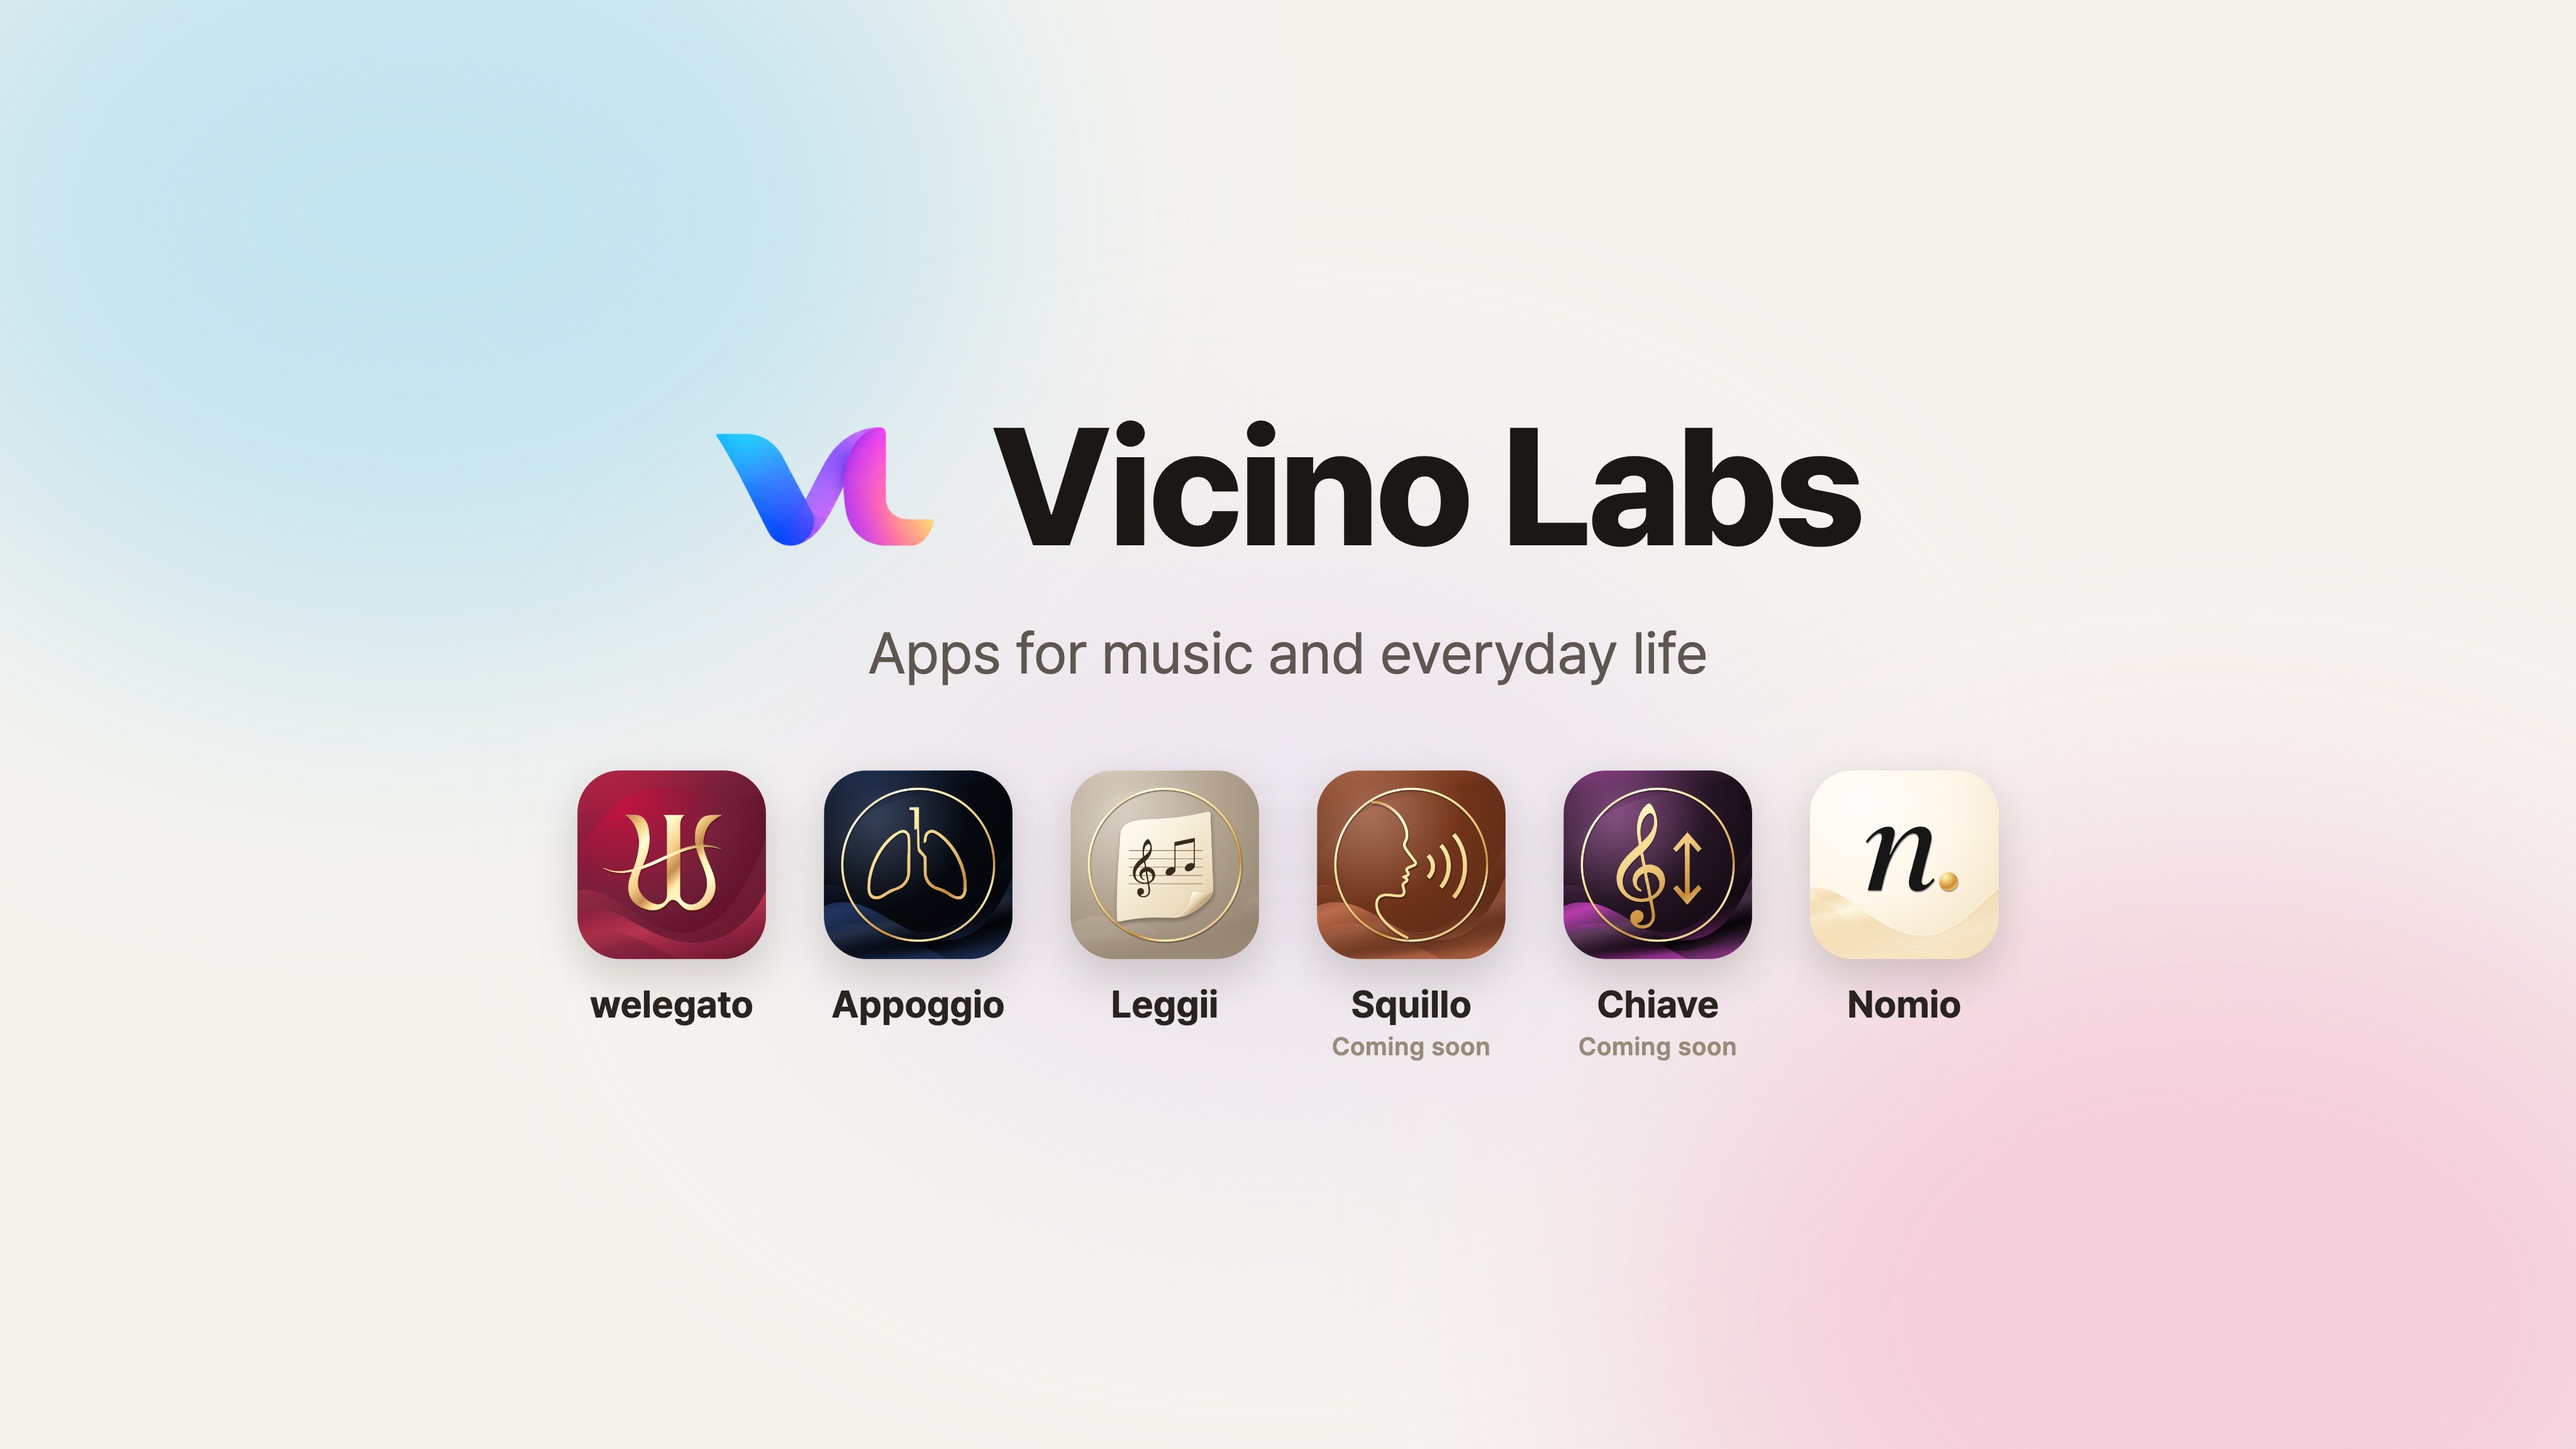
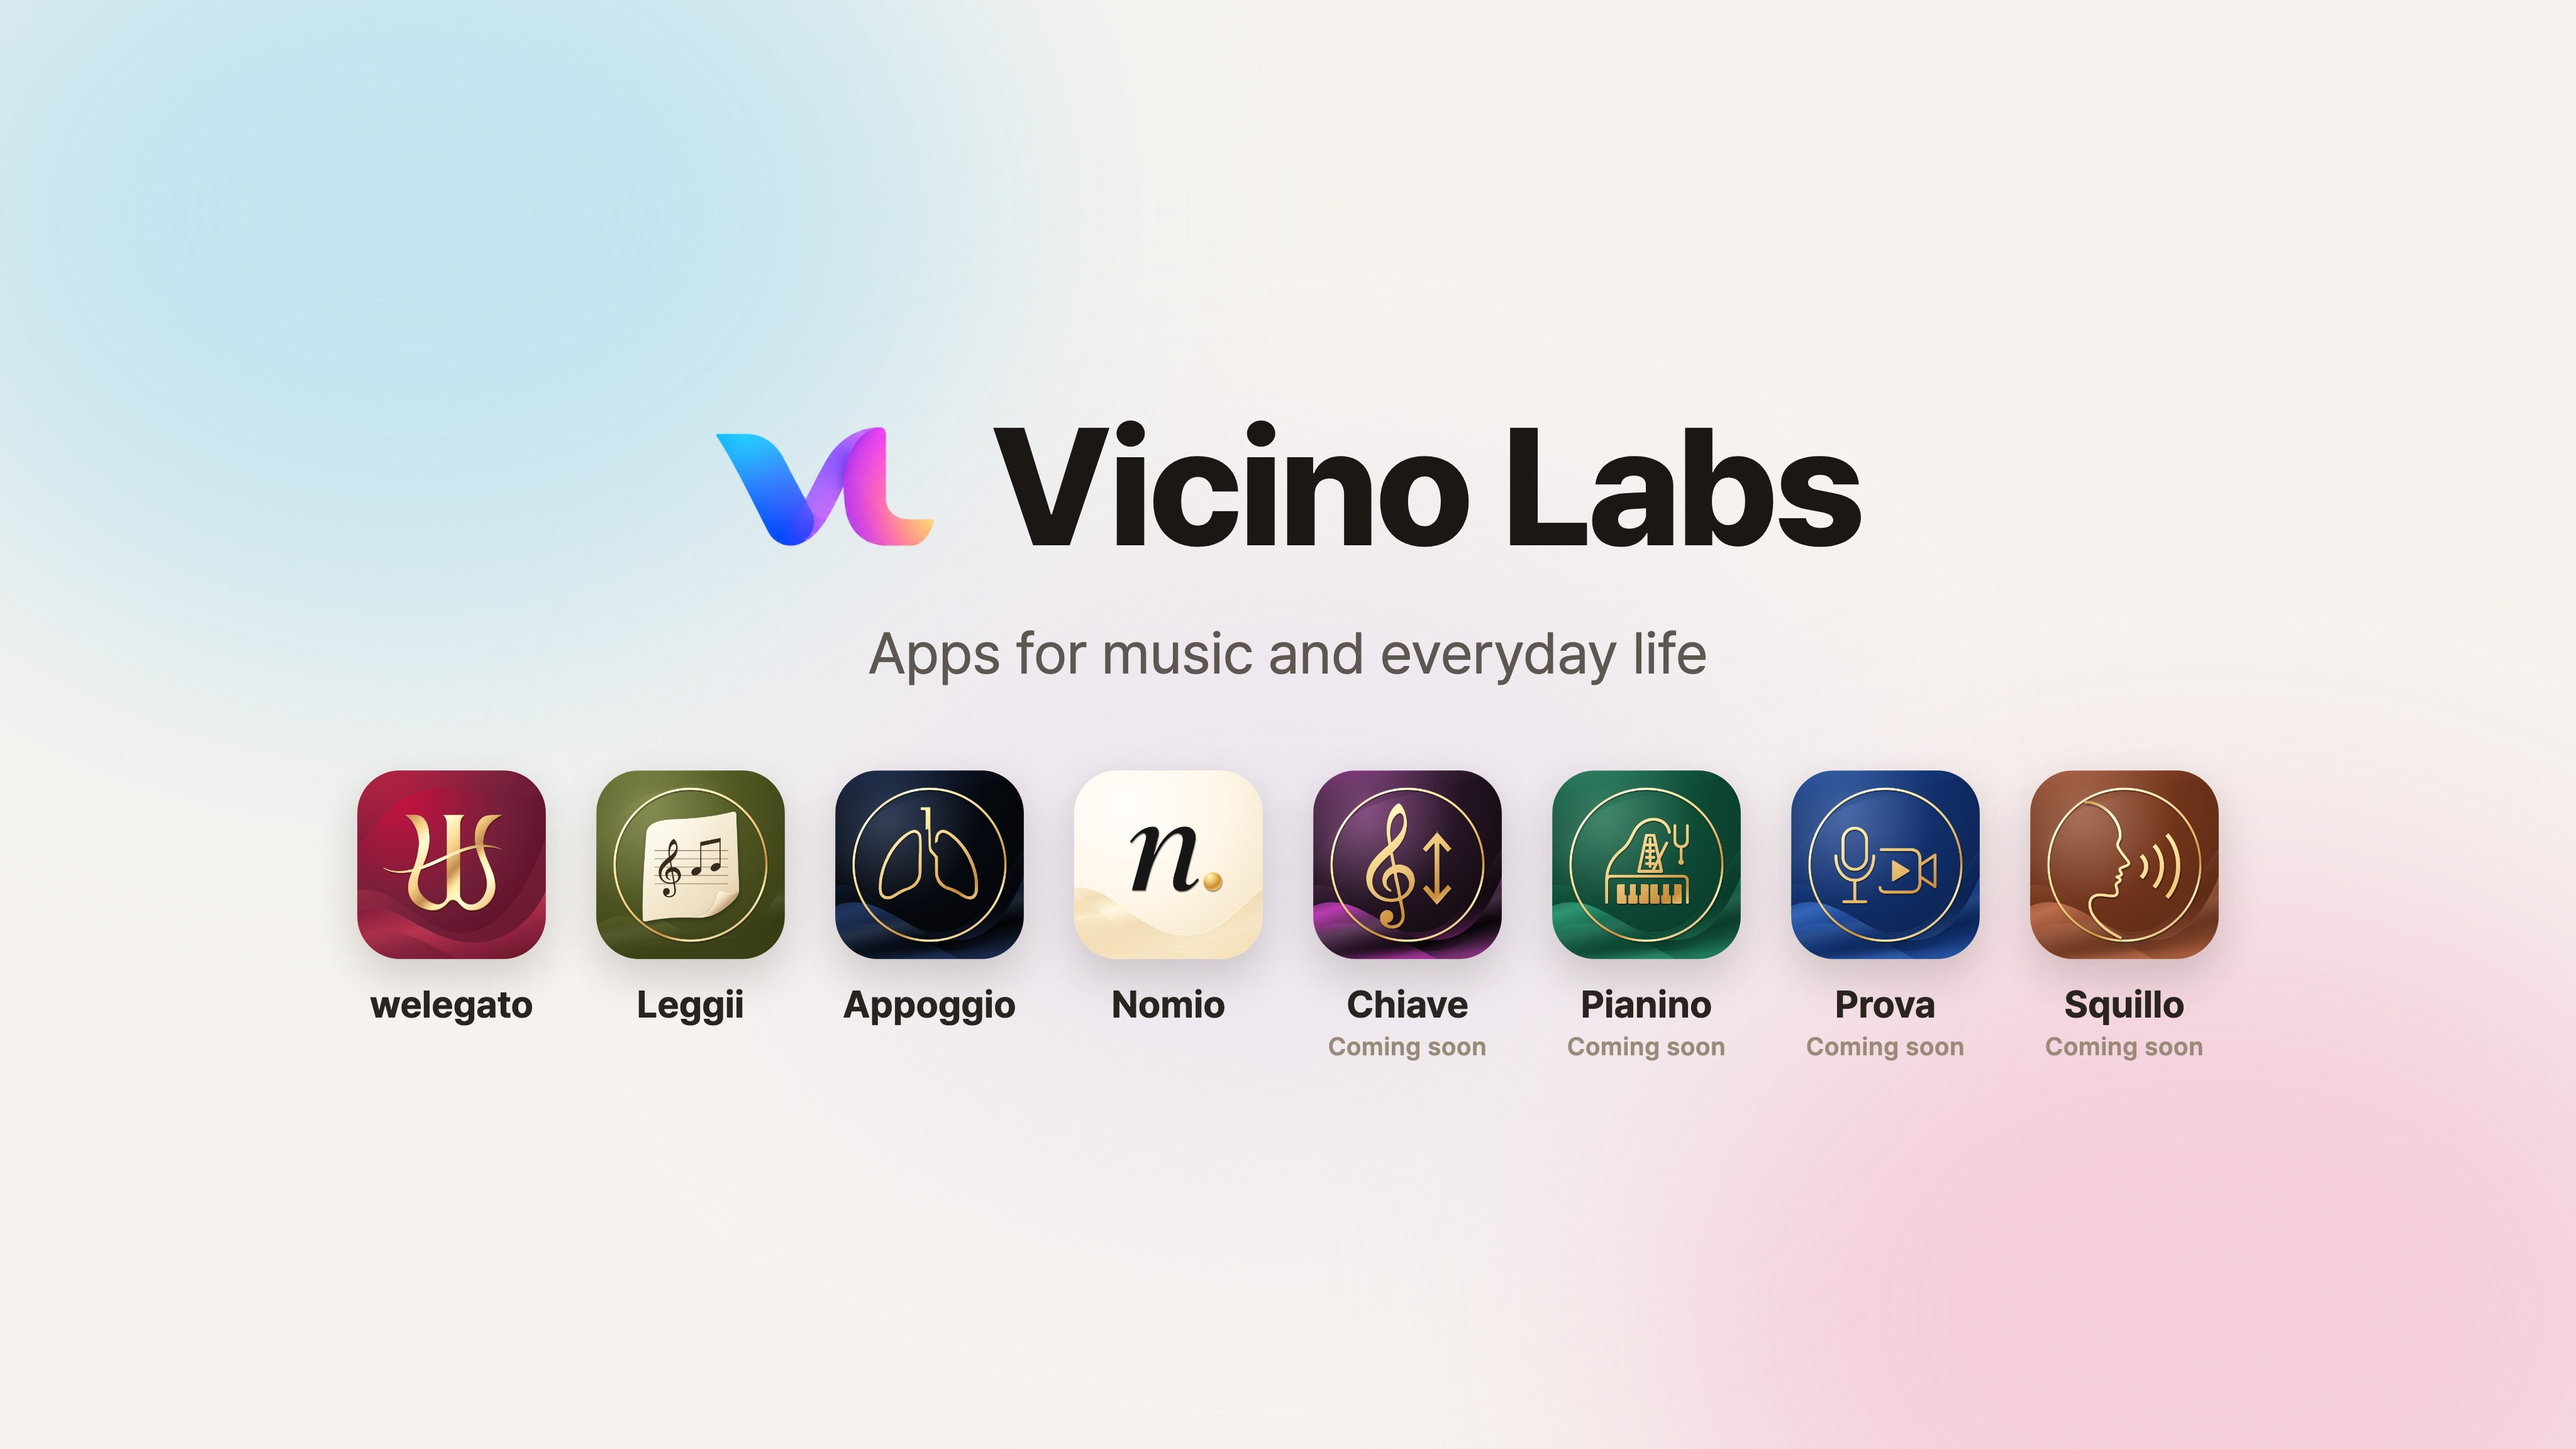
렛지 아이콘 올리브로 교체, Play 개발자 헤더를 8개 앱 최종 아이콘으로 새로 만듦

Changed region(s): [[0.125, 0.5312, 0.875, 0.75]]

diff --git a/play-dev/header.html b/play-dev/header.html
@@ -9,7 +9,7 @@ body{width:2048px;height:1152px;overflow:hidden;font-family:'Pretendard',sans-se
 .brand img{height:96px}
 .brand span{font-size:132px;font-weight:800;letter-spacing:-.03em;color:#1a1715}
 .tag{margin-top:26px;font-size:46px;color:#5e5650}
-.apps{display:flex;gap:46px;margin-top:66px}
+.apps{display:flex;gap:40px;margin-top:66px}
 .app{width:150px;text-align:center}
 .app img{width:150px;height:150px;border-radius:34px;box-shadow:0 14px 34px rgba(40,25,15,.18);display:block}
 .app b{display:block;margin-top:18px;font-size:30px;font-weight:700;color:#2a2421}
@@ -25,9 +25,8 @@ body{width:2048px;height:1152px;overflow:hidden;font-family:'Pretendard',sans-se
   <div class="apps" id="apps"></div>
 </div>
 <script>
-// 2026-10-28 최종 아이콘(welegato-marketing/brand/vicino-icons-final-2026-10-28). Leggii는 2026-10-25 출시.
-const B='file:///Users/jameslee/App/welegato-marketing/brand/';
-const F=B+'vicino-icons-final-2026-10-28/';
-const apps=[['welegato',B+'welegato-icon-2026-10-28/icon-rounded-1024.png',0],['Appoggio',F+'appoggio/icon-rounded-1024.png',0],['Leggii',F+'leggii/icon-rounded-1024.png',0],['Squillo',F+'squillo/icon-rounded-1024.png',1],['Chiave',F+'chiave/icon-rounded-1024.png',1],['Nomio',F+'nomio/icon-rounded-1024.png',0]];
+// 2026-11-08 최종 아이콘(/Users/jameslee/App/brand/vicino-icons-final-2026-10-28, 렛지 올리브). 출시된 앱 먼저.
+const F='file:///Users/jameslee/App/brand/vicino-icons-final-2026-10-28/';
+const apps=[['welegato','welegato',0],['Leggii','leggii',0],['Appoggio','appoggio',0],['Nomio','nomio',0],['Chiave','chiave',1],['Pianino','pianino',1],['Prova','prova',1],['Squillo','squillo',1]].map(([n,d,soon])=>[n,F+d+'/icon-rounded-1024.png',soon]);
 document.getElementById('apps').innerHTML=apps.map(([n,s,soon])=>`<div class="app"><img src="${s}"><b>${n}</b><i class="${soon?'':'on'}">Coming soon</i></div>`).join('');
 </script></body></html>

diff --git a/leggii_legal.py b/leggii_legal.py
@@ -15,7 +15,7 @@ LEGGII = {
     "home": "/leggii/",
     "mark": "L",
     "mark_bg": "#2a2c30",  # 아이콘 차콜
-    "mark_img": "/leggii/icon.png",  # 지금 앱 아이콘(크림 악보, 2026-11-05) — 옛 "L" 글자 대신
+    "mark_img": "/leggii/icon.png",  # 최종 아이콘(올리브, 2026-11-08) 120px
     "langs": [("ko", "한국어"), ("en", "English"), ("de", "Deutsch"), ("it", "Italiano")],
     "storage": "leggii-legal-lang",
 }

diff --git a/play-dev/README.md b/play-dev/README.md
@@ -3,7 +3,7 @@
 | 칸 | 파일·내용 |
 |---|---|
 | 개발자 아이콘 (512×512 PNG) | `developer-icon-512.png` (vicinolabs.com 아이콘과 같은 파일) |
-| 헤더 이미지 (4096×2304) | `header-4096x2304.png` (2026-10-28 최종 아이콘, Leggii 출시됨·Squillo·Chiave 출시 예정. 업로드는 `.jpg` 445KB — png는 1.9MB. 이전 것은 `-old-2026-10-21`). 만드는 법: `header.html`을 헤드리스 Chrome으로 2048×1152, --force-device-scale-factor=2 |
+| 헤더 이미지 (4096×2304) | `header-4096x2304.png` (2026-11-08: 8개 앱 최종 아이콘, 렛지 올리브. 출시: welegato·Leggii·Appoggio·Nomio, 출시 예정: Chiave·Pianino·Prova·Squillo. 업로드는 `.jpg` 447KB — png는 2MB. 이전 것은 `-old-2026-11-08`). 만드는 법: `header.html`을 헤드리스 Chrome으로 2048×1152, --force-device-scale-factor=2 |
 | 웹사이트 | https://vicinolabs.com |
 | 연락처 이메일 | contact@vicinolabs.com |
 
